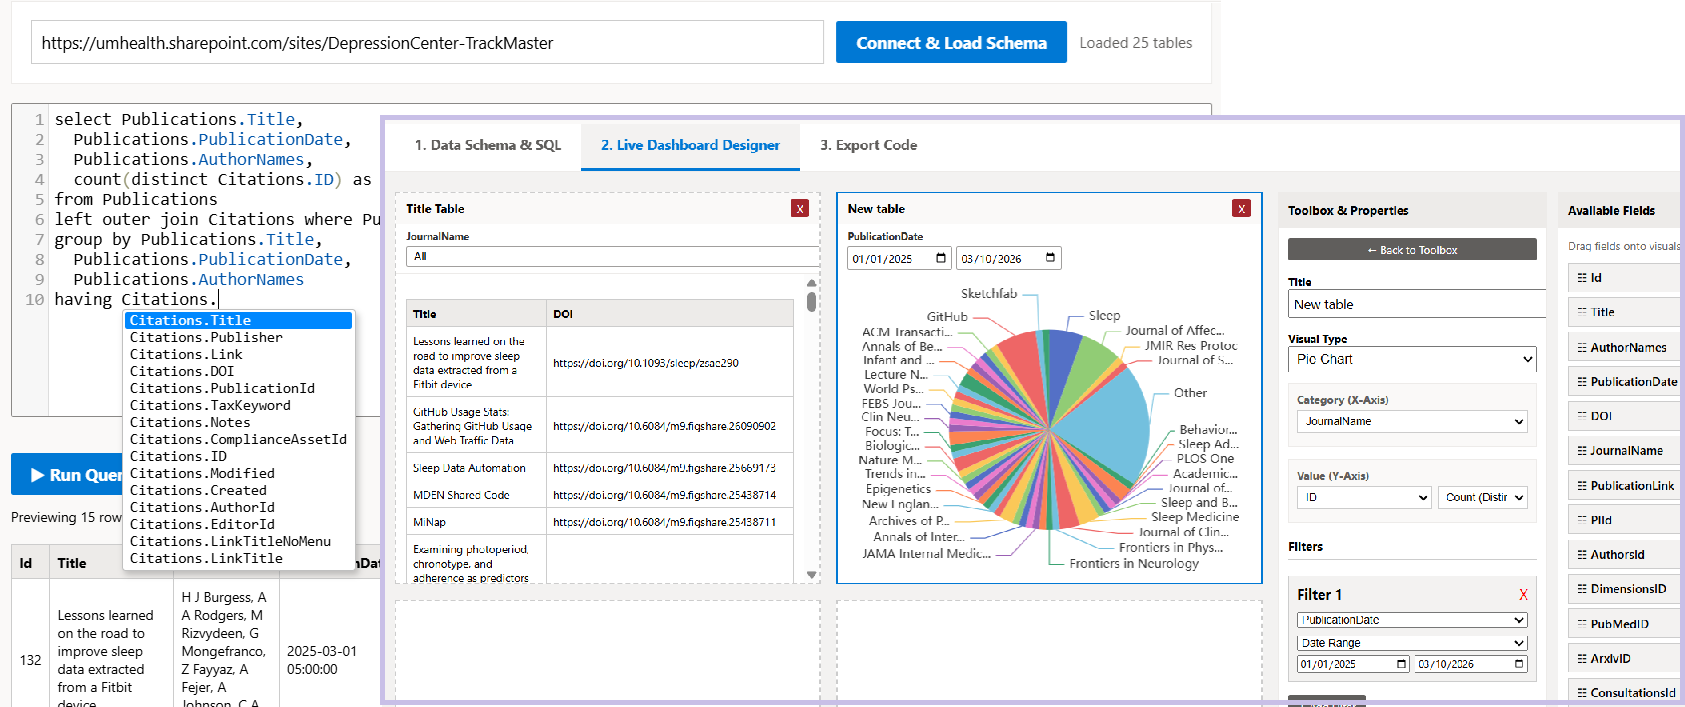
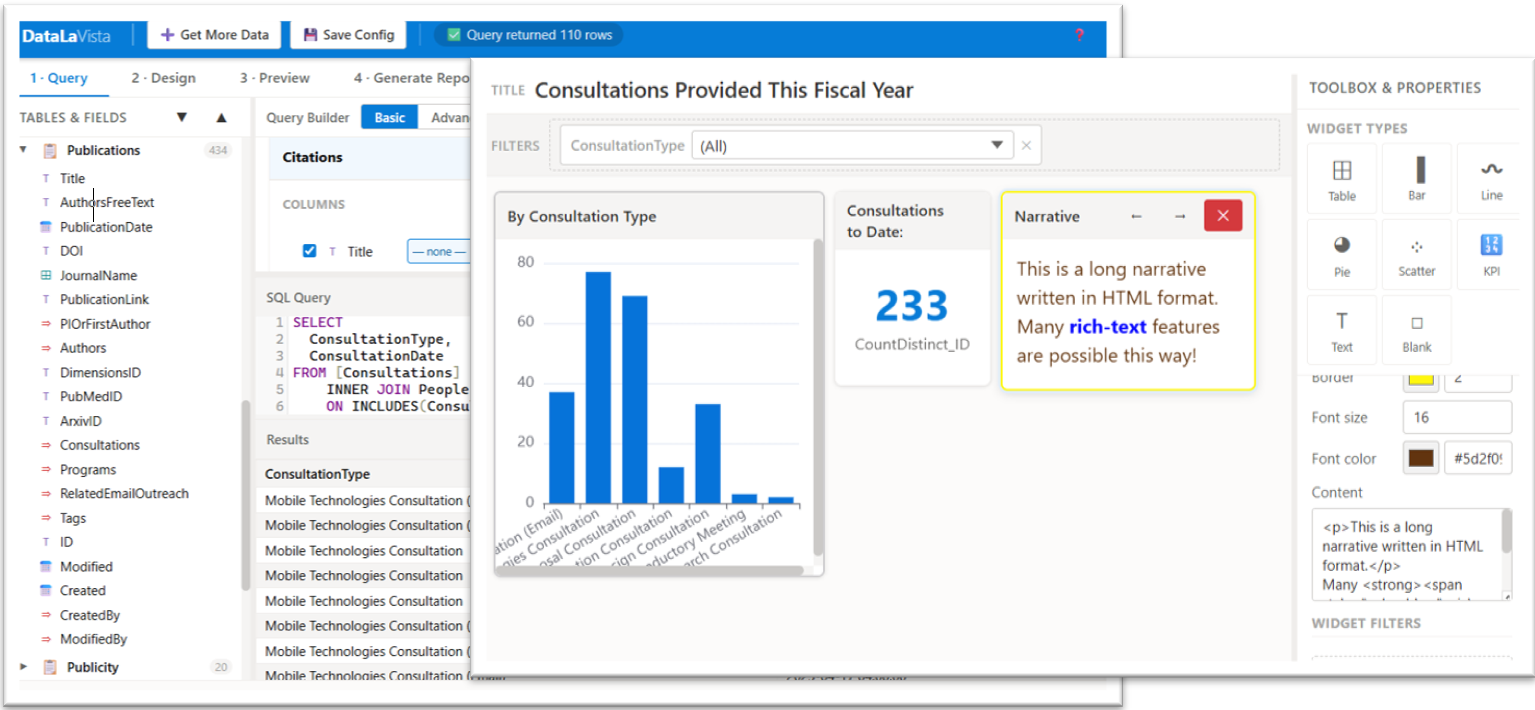
Updated instructions
Updated quick start in README and screenshot.

diff --git a/README.md b/README.md
@@ -58,20 +58,30 @@ Most enterprise data is trapped behind bloated frameworks or expensive BI tools.
 
 
 ## Quick Start Guide
-+ In a SharePoint Online site, create a page using a blank template and call it "Report Designer"
-+ Add a single webpart for "Modern Script Editor". If not available, contact your site administrator to [install it](https://github.com/pnp/sp-dev-fx-webparts/tree/main/samples/react-script-editor)
-+ Copy and paste the contents of [ReportDesigner.html](ReportDesigner.html) into this file, then save and publish
-+ Refresh the Report Designer page. Click connect, write your SQL in the 1st tab (available lists and fields will show as suggestions), build your dashboard in the 2nd tab, and copy the generated configuration on the 3rd tab. Paste that code in Notepad for now
-+ Create a second page using a blank template and call it "Report" (you will need a separate page for each report)
-+ Copy the contents of [ReportViewer.html](ReportViewer.html) and past them into notepad. Edit the section that says ***"REPORT CONFIGURATION"*** by replacing that section with the code you generated in report designer
-+ Add a single webpart for "Modern Script Editor" and paste the code, then save and publish
-+ Refresh the page. It should now display your report. Any users with access to the data and the site will be able to run it.
++ If using SharePoint Online:
+  - First ensure you have the "Modern Script Editor" app installed. If not available, contact your site administrator to [install it](https://github.com/pnp/sp-dev-fx-webparts/tree/main/samples/react-script-editor)
+  - Create a page using a blank template or Modern Script Editor template, and call it "DataLaVista Designer"
+  - Add a "Modern Script Editor" webpart.
+  - Copy and the paste the code from [DataLaVista.html](DataLaVista.html) into the script editor. Save, and refresh.
++ If using inside a different web platform, follow the same steps as above with whatever method is available for adding scripts to the page. Alternatively, save [DataLaVista.html](DataLaVista.html) to your web server, and add its URL in an iframe tag.
++ If running stand-alone (e.g. in your laptop), simply download and open [DataLaVista.html](DataLaVista.html)
++ Once the DataLaVista Designer is open, click Connect + Load and enter the location of your data. For SharePoint installations, it should automatically populate the URL for your site in a few seconds. You can also use the different tabs to connect to remote JSON files, CSV, Excel, or to upload a JSON or CSV file.
++ Use the Query Builder and/or SQL Editor to pre-process your data. This will create a flat table, displayed in the preview.
++ Switch to the Design tab to create your dashboard using visuals, tables, or HTML widgets.
++ Switch to the Preview tab to see the final version of your dashboard.
++ Switch to the Generate Report tab. From here, you will see code for either a stand-alone HTML file, or just a JSON config. The easiest way to publish your report is to copy the contents of the stand-aline HTML file, and save them to a new page following the same process you used to create the designer page.
++ Once your report code is on its own page, simply refresh the page and the report will load all the data and visuals. Users will need to be already logged in to your data source, which is typically already done if you are hosting it inside SharePoint or a web app.
 
 
 
 
 ## Documentation
 + The full documentation is not yet available, but it will be coming to: https://michmed.org/efdc-kb
+
+### Background History
+Data La Vista was an idea conceived out of necessity. When our IT department was being too slow to roll out BI tools, the members of the [Automators Anonumous](https://github.com/DepressionCenter/AutomatorsAnonymous) group (a.k.a. Power Automate Lab) at UMich got together and created this tool through many, many iterations of AI prompts! Some of the prompts are included in this project for referene and to give you ideas of what's possible.
+
+Data La Vista does not aim to replace other BI tools completly. This tool is meant to be fast and super easy to use, making it idea for smaller or throw-away reports, for data exploration, and for reporting on SharePoint List data (which is notoriously difficult and messy). The data loading engine makes assumptions about what fields should or should be shown, and adds synthetic fields to make advanced SQL queries easier. Moreover, the focus really is on business and casual users who have lightweight reporting needs.
 
 
 
@@ -106,7 +116,9 @@ If you need assistance identifying a contact person, email the EFDC's Mobile Tec
 #### Contributors:
 + [Eisenberg Family Depression Center](https://depressioncenter.org) [(@DepressionCenter)](https://github.com/DepressionCenter)
 + [Gabriel Mongefranco](https://gabriel.mongefranco.com) [(@gabrielmongefranco)](https://github.com/gabrielmongefranco)
-
++ [Jeremy Gluskin](https://mcommunity.umich.edu/person/jgluskin) [(@jerm-ops)](https://github.com/jerm-ops) - Revenue Lifecycle System Coordinator, Quality - Patient Safety, Michigan Medicine.
++ [Shelley Boa](https://mcommunity.umich.edu/person/sboa) [(@blondilox-ai)](https://github.com/blondilox-ai) - Program Manager, Internal Medicine / Pulmonology & Critical Care, Michigan Medicine.
++ The [Automators Anonumous](https://github.com/DepressionCenter/AutomatorsAnonymous) group.
 
 
 #### This work is based in part on the following projects, libraries and/or studies:
